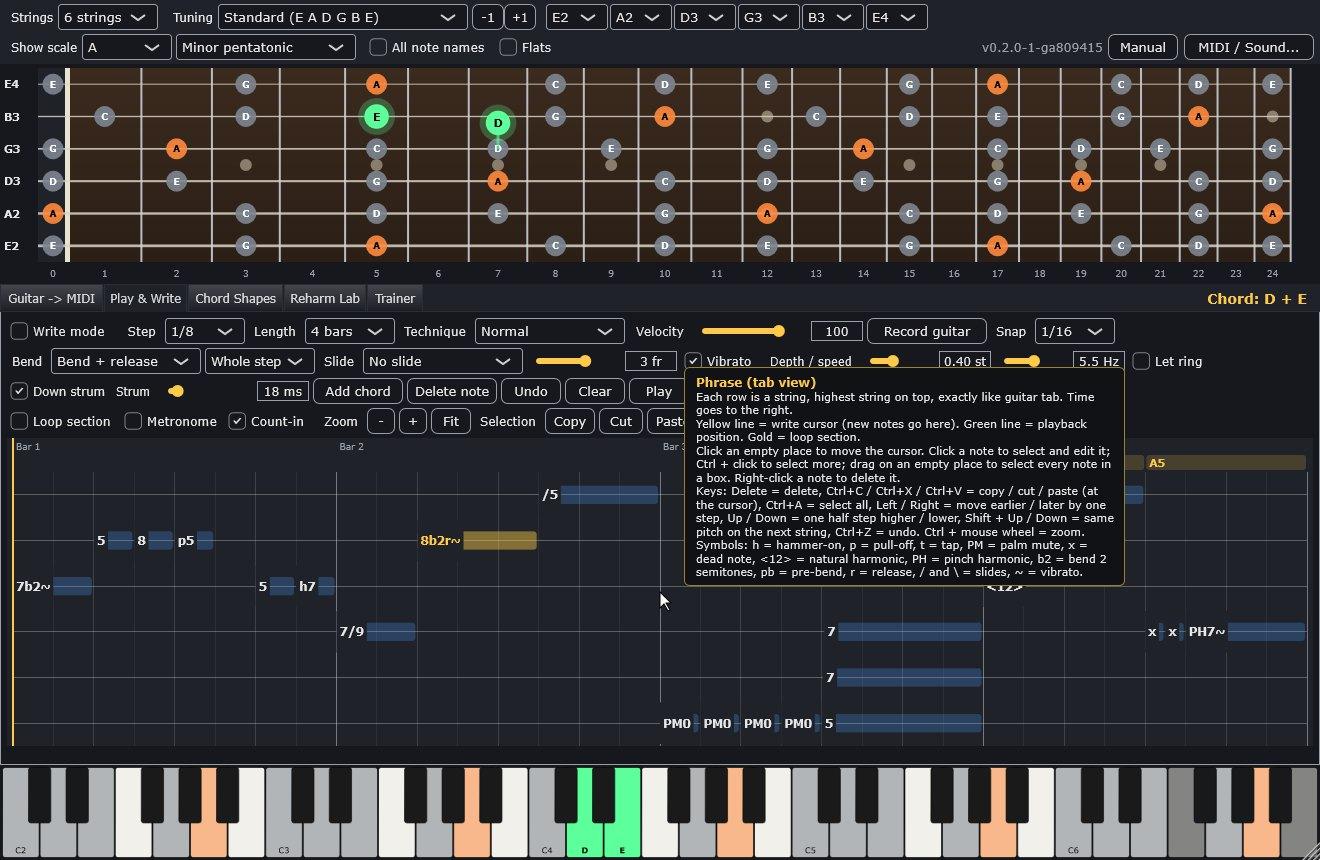
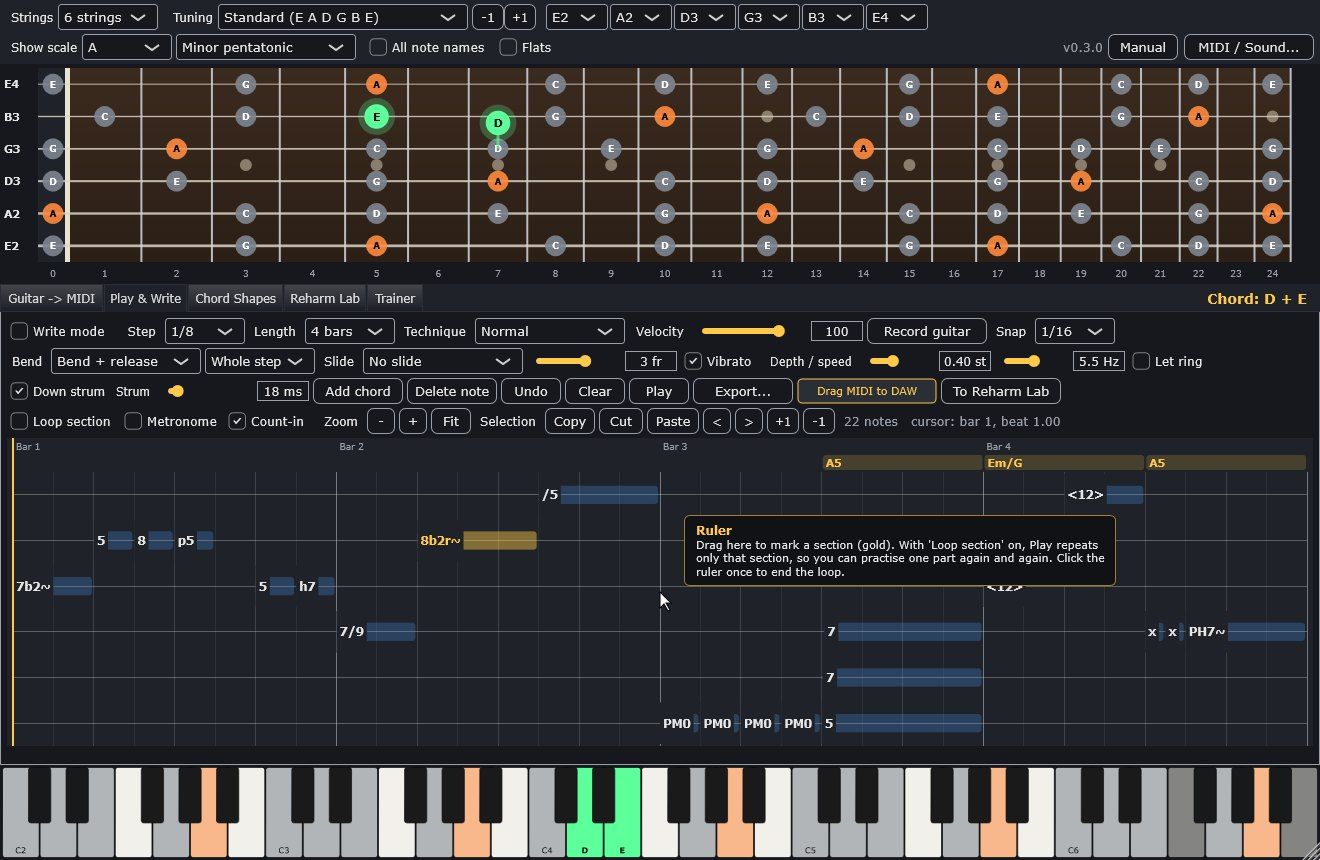
Fix +0 in intonation report and update project notes

Changed region(s): [[0.497, 0.4233, 0.8697, 0.6953], [0.7455, 0.0302, 0.8386, 0.0605]]

diff --git a/docs/manual/index.html b/docs/manual/index.html
@@ -296,7 +296,7 @@ footer { padding-block: 40px 60px; color: var(--muted); font-size: 0.9rem; }
     <div class="row"><div class="ctl"><span class="chip">Show scale</span></div><div class="what"><p>Root and scale type: shows that scale on the whole neck and the piano. Orange = root, grey = other notes. "Off" hides it. Only a display.</p></div><span class="tag opt t">Optional</span></div>
     <div class="row"><div class="ctl"><span class="chip">All note names</span></div><div class="what"><p>Every note name on every fret, faintly. Good for learning the neck.</p></div><span class="tag opt t">Optional</span></div>
     <div class="row"><div class="ctl"><span class="chip">Flats</span></div><div class="what"><p>Bb, Eb… instead of A#, D#… Same notes, other names.</p></div><span class="tag opt t">Optional</span></div>
-    <div class="row"><div class="ctl"><span class="chip">v0.3.0</span></div><div class="what"><p>The version you have installed.</p></div><span class="tag leave t">Leave alone</span></div>
+    <div class="row"><div class="ctl"><span class="chip">v0.3.1</span></div><div class="what"><p>The version you have installed.</p></div><span class="tag leave t">Leave alone</span></div>
     <div class="row"><div class="ctl"><span class="chip">Manual</span></div><div class="what"><p>Opens this manual in your web browser.</p></div><span class="tag opt t">Optional</span></div>
     <div class="row"><div class="ctl"><span class="chip">MIDI / Sound...</span></div><div class="what"><p>MIDI and sound settings. Most can stay as they are. <a href="#midisound">See the list</a></p></div><span class="tag once t">Set once</span></div>
   </div>

diff --git a/Source/UI/IntonationView.cpp b/Source/UI/IntonationView.cpp
@@ -127,7 +127,7 @@ namespace gl
                 {
                     g.setColour (juce::Colours::black);
                     g.setFont (juce::FontOptions (std::min (11.0f, ch * 0.5f)));
-                    g.drawText ((c > 0 ? "+" : "") + juce::String ((int) std::lround (c)), cell, juce::Justification::centred);
+                    g.drawText ((std::lround (c) > 0 ? "+" : "") + juce::String ((int) std::lround (c)), cell, juce::Justification::centred);
                 }
             }
         }

diff --git a/CLAUDE.md b/CLAUDE.md
@@ -13,12 +13,14 @@ Tab order (= the `Tab` enum in `PluginEditor.h`, = the `addTab` order):
    Calibration wizard: tuning first, then Quick (silence, open strings, 12th fret, soft/hard) or Full
    (every fret on every string, ~37 chords in mono/poly, soft and hard picking on every string).
    Calibrations can be saved and loaded as **presets** (files, shared by all projects).
+   **Intonation report** (`UI/IntonationView`): from a Full calibration, how far every fret plays from its open string.
 2. **Play & Write** – play the neck live (drag = bend / slide) and write MIDI phrases (up to 512 bars) with
    hammer-ons, pull-offs, taps, palm mute, dead notes, harmonics, bends, slides, vibrato and strummed chords.
    **Record guitar** writes the tracked notes into the phrase as editable tab (`PhraseRecorder`), with an optional
    1-bar count-in. Practice/edit tools: loop a section (drag in the ruler), metronome, zoom, multi-select
    (Ctrl + click, box drag), copy/cut/paste, move/transpose with buttons or keys. Export: MIDI, text tab, PDF,
-   MusicXML (`Midi/TabExport`).
+   MusicXML, Guitar Pro 3 (`Midi/TabExport`). Gold chord names under the bar numbers show the harmony over time
+   (`Midi/ChordTimeline`); "To Reharm Lab" sends them there.
 3. **Chord Shapes** – type or pick any chord symbol (`Cmaj7`, `F#m7b5`, `G7#9`, `D/F#`, `E7alt`) and see every
    playable shape for this tuning as chord diagrams (`parseChordName` + `findShapes`).
 4. **Reharm Lab** – type a progression (`I V vi IV`, `Dm7 G7 Cmaj7`), get substitutions
@@ -68,14 +70,16 @@ Inno Setup is not installed on the dev machine; CI installs it. Do not install i
 | Folder | What | Depends on JUCE? |
 |---|---|---|
 | `Source/Theory/` | Notes, instrument + tunings, chords + Roman numerals, reharm engine, voicing search (`findVoicings`, `findShapes` for any note set), trainer logic, `ChordFinder` (notes -> chord names, chord symbol -> notes) | **No** |
-| `Source/Midi/` | `Phrase` (the note/technique model), `MidiRenderer` (phrase -> MIDI events), `PhraseRecorder` (tracked MIDI -> phrase notes), `TabExport` (tab text for a note; text tab, PDF and MusicXML files) | **No** |
+| `Source/Midi/` | `Phrase` (the note/technique model), `MidiRenderer` (phrase -> MIDI events), `PhraseRecorder` (tracked MIDI -> phrase notes), `TabExport` (tab text for a note; text tab, PDF, MusicXML and GP3 files), `ChordTimeline` (phrase -> chord names over time) | **No** |
 | `Source/Tracking/` | `PitchDetector` (YIN on a downsampled copy), `Spectrum` (FFT, tone colour, chroma), `Calibration` + `CalibrationSession` (wizard logic), `GuitarTracker` (audio -> notes/bends/velocity/chords; runs `PolyTracker` in poly mode) | **No** |
 | `Source/Audio/` | `PluckSynth`: small built-in plucked-string sound (one voice per MIDI channel) | Yes |
-| `Source/UI/` | Fretboard, piano, top bar, the five tab panels (`ShapesPanel` = Chord Shapes), theme + tooltip look | Yes |
+| `Source/UI/` | Fretboard, piano, top bar, the five tab panels (`ShapesPanel` = Chord Shapes), `IntonationView`, theme + tooltip look. The top bar's **Manual** button opens `Manual/index.html` next to the app, else the latest GitHub release | Yes |
 | `Source/PluginProcessor.*` | Parameters, state save/load, playback in sync with the host, live notes | Yes |
 | `Source/PluginEditor.*` | Lays out the window and routes fretboard/piano clicks to the open tab | Yes |
 | `Tests/CoreTests.cpp` | Plain asserts for `Theory/`, `Midi/` and `Tracking/` (no framework) | No |
 | `installer/GuitarLab.iss` | Inno Setup 6 installer script | - |
+| `docs/manual/` | The user manual (`index.html` + `img/`). Shipped in the release zip and the installer | - |
+| `tools/make-manual-images.bat` | Makes `docs/manual/img` from the real plugin window, off-screen (`tools/screenshots`, CMake option `GUITAR_LAB_SCREENSHOTS`, build folder `build-manual`). Run `build.bat` first | - |
 | `build.bat` | Local + CI build (CMake + Ninja with Visual Studio's toolchain), then runs the tests | - |
 | `.github/workflows/build.yml` | CI on every push; a `v*` tag also publishes a GitHub Release | - |
 
@@ -160,7 +164,8 @@ Keep `Theory/`, `Midi/` and `Tracking/` free of JUCE, so they stay testable and 
   on a grid of 16ths (or triplets, only when notes really sit on triplets); the notes of one strummed chord (same
   `group`) are written in one column. The PDF is written by our own tiny writer (standard Helvetica fonts, lines,
   white boxes, text; no library): bars get the width their notes need and lines are stretched to the page; palm
-  mute is "P.M. - - -" above the staff. Guitar Pro (.gp) is not written: Guitar Pro imports the MusicXML.
+  mute is "P.M. - - -" above the staff. Guitar Pro 3 (.gp3) is written by hand too (up to 7 strings, no palm mute in
+  that format); the newer .gp format is not written.
 - **Practice tools in the processor:** `loopStart` / `loopEnd` (beats, atomics) loop Guitar Lab's own Play;
   `startCountIn()` plays one bar of clicks, then starts Play at the given bar and (for Record guitar) sets
   `recordingGuitar` in the same block, so the recording uses the transport clock. The metronome is the
@@ -182,6 +187,9 @@ Keep `Theory/`, `Midi/` and `Tracking/` free of JUCE, so they stay testable and 
   **Guitar-Lab-Standalone** -> build the installer with Inno Setup (installed via choco if missing)
   -> upload **Guitar-Lab-Installer**. Actions are pinned by commit SHA with a version comment
   (same pins as the owner's stream-bridge repo).
+- **Every release ships an updated user manual.** Before tagging: update `docs/manual/index.html` for every
+  feature change, run `tools\make-manual-images.bat` so the pictures match, and check that every `<img>` exists.
+  `.gitattributes` keeps `*.pdf` binary (else Windows checkout breaks the example PDF in the manual).
 - Release: `git tag vX.Y.Z && git push origin vX.Y.Z` -> CI publishes a GitHub Release with
   `Guitar-Lab-vX.Y.Z.zip` (VST3 folder + standalone exe) and `Guitar-Lab-Setup-X.Y.Z.exe`.
   **Never push a tag unless the owner asks.**
